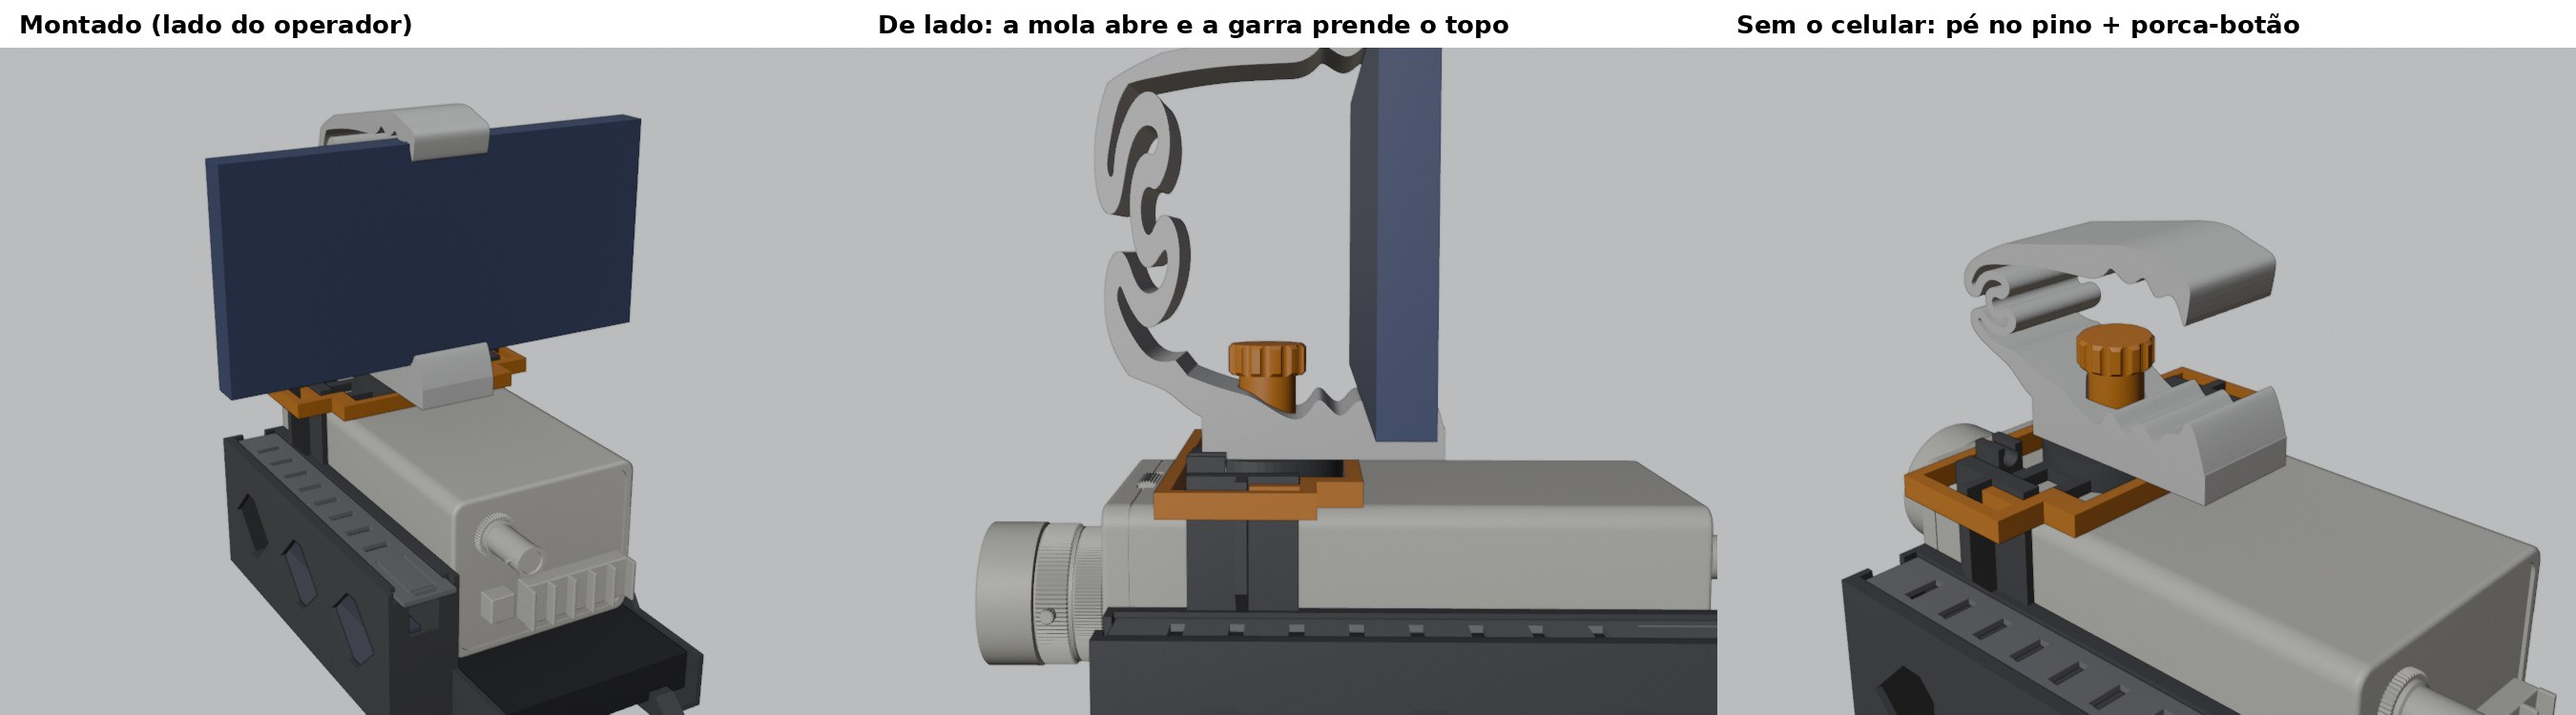
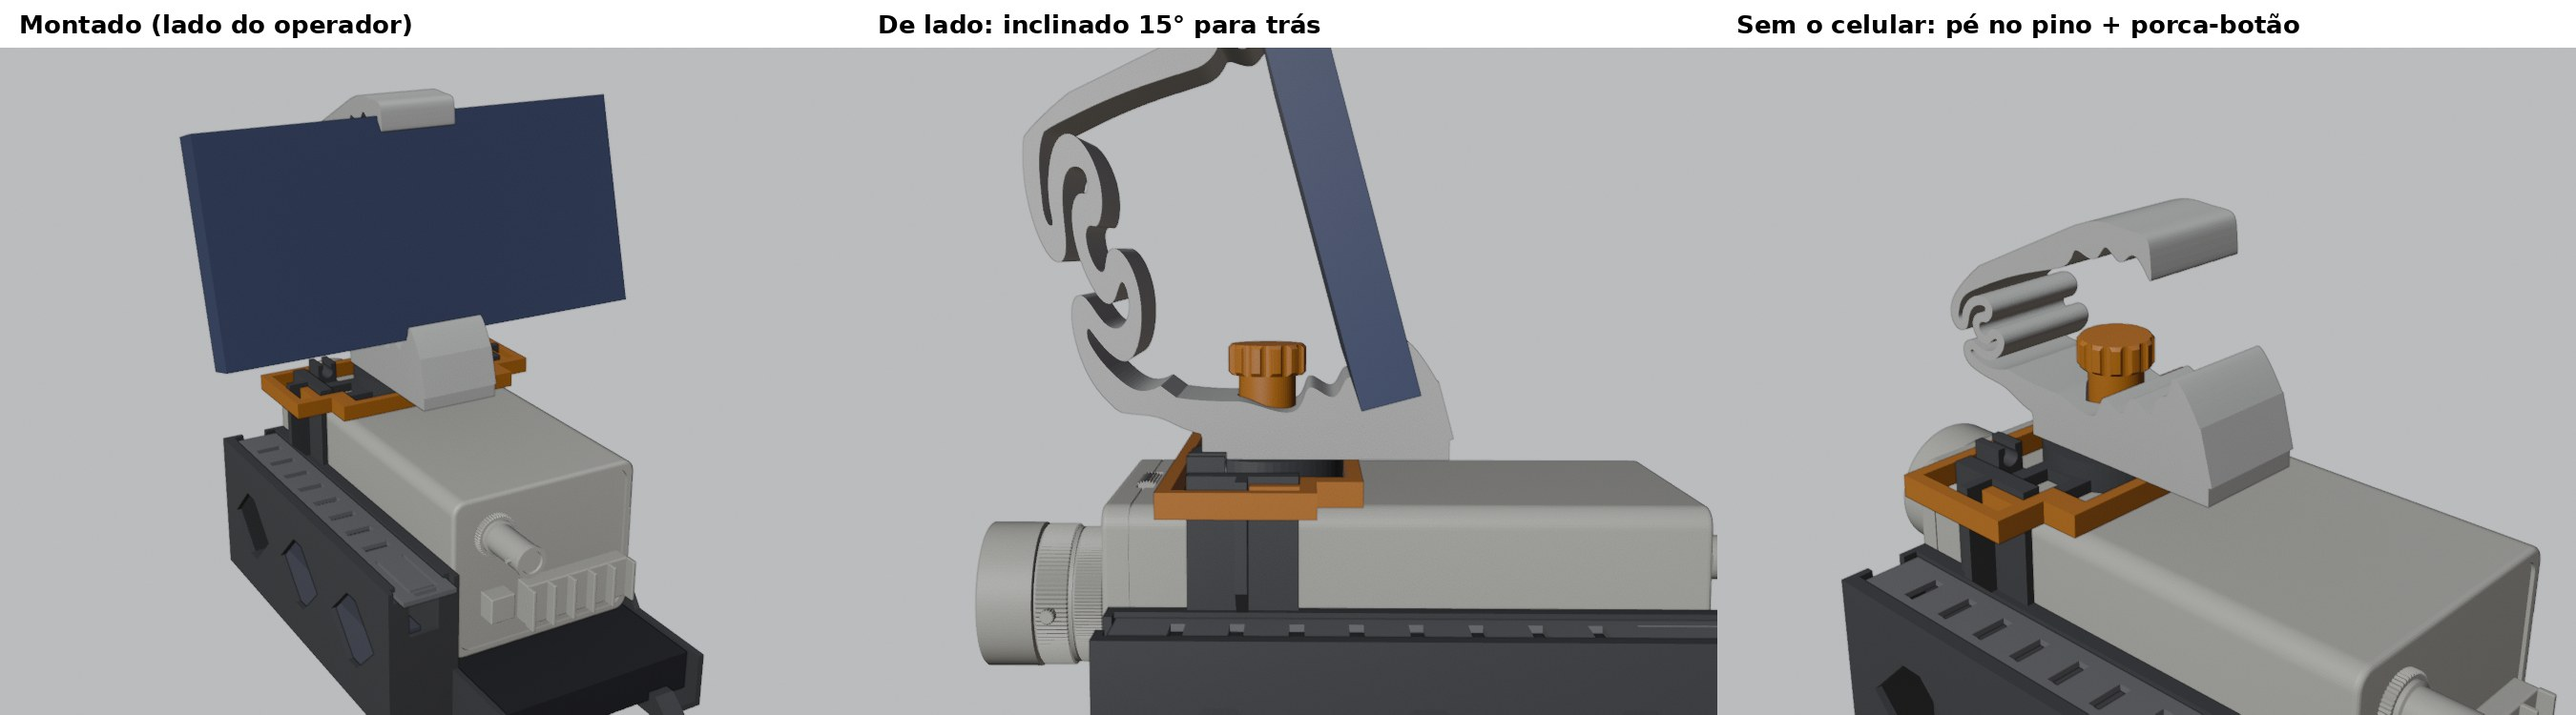
Clip do celular inclinado 15° para trás
O corpo do clip inclina sobre o pé, que continua reto na base do giro
(parâmetro CL_INC). Inclui o desenho de como o clip encaixa no pino.

diff --git a/docs/SUPORTE_CLIP.md b/docs/SUPORTE_CLIP.md
@@ -1,14 +1,17 @@
 # Suporte fixo do celular (clip do MakerWorld)
 
-Esta opção troca a articulação (giro, inclinação e rolagem) por um suporte fixo. O celular fica num clip de mola preso na base do giro da ponte, com a tela para o operador.
+Esta opção troca a articulação (giro, inclinação e rolagem) por um suporte fixo. O celular fica num clip de mola preso na base do giro da ponte, com a tela para o operador e inclinado 15° para trás, com a tela apontando um pouco para cima.
 
 ![Suporte fixo com o clip](img/suporte_clip.jpg)
+
+![Como o clip encaixa na ponte](img/como_encaixa.jpg)
 
 O clip é o [Ultimate Desk & Cockpit Phone Holder Clip v3](https://makerworld.com/models/1158094), de **RealNationPrint**, impresso a 110 %, como no perfil do autor.
 - **A garra de cima, com a mola em espiral,** segura o celular deitado pela altura. O fundo do celular fica nos dentes, atrás do lábio da frente, e a ponta da garra prende o topo.
 - **A garra de baixo,** que prendia o clip no painel do carro, foi tirada.
 - **No lugar dela entra um pé,** com furo em D que encaixa no pino do giro. A face plana do pino impede o clip de girar.
 - **Uma porca-botão** rosqueia no pino por cima e aperta o pé contra a base.
+- **Inclinação:** o corpo do clip é inclinado 15° em cima do pé, que continua reto na base. Para mudar, altere `CL_INC` no `.scad`.
 
 ## O arquivo do clip não vem neste projeto
 
@@ -32,7 +35,7 @@ O arquivo gerado é só para uso pessoal.
 
 | Peça | Material | Configuração | Filamento* |
 |---|---|---|---|
-| Clip (`PART="clip"`) | **PETG** | Deitado, com o perfil na mesa. Camada de 0,2 mm, 3 paredes, 25 % de preenchimento, sem suporte. | ~28 g |
+| Clip (`PART="clip"`) | **PETG** | Deitado, com o perfil na mesa. Camada de 0,2 mm, 3 paredes, 25 % de preenchimento, sem suporte. | ~30 g |
 | Porca-botão (`PART="porca_clip"`) | PLA | Botão na mesa. Mesma configuração das porcas (mesa 4): camada de 0,12 mm, 5 paredes, 40 %. | ~3 g |
 
 \* Estimativa. O fatiador mostra o peso exato.
@@ -66,9 +69,9 @@ O arquivo gerado é só para uso pessoal.
   - porca-botão no rebaixo: 0,4 mm;
   - botão até o corpo do clip: 2,3 mm.
 - **Celular:**
-  - Fica de pé de Z 47 a 121 mm, uns 11 mm mais baixo que na articulação.
-  - Mantém a mesma posição para a frente e para trás.
-- **Equilíbrio:** o centro de massa fica ~4 mm atrás da mão, como antes.
+  - Fica inclinado 15° para trás, de Z 52 a 126 mm, uns 6 mm mais baixo que na articulação.
+  - Sobram 8 mm entre o celular e a porca-botão.
+- **Equilíbrio:** o centro de massa fica ~1,5 mm atrás da mão. Antes ficava ~4 mm.
 - **Em pé na mesa:** o rig só tomba se inclinar mais de ~6°.
 
 Para refazer as contas: `tools/check_clip.py` e `tools/cog_clip.py`.

diff --git a/docs/COMO_IMPRIMIR.md b/docs/COMO_IMPRIMIR.md
@@ -11,7 +11,7 @@ As mesas da pasta `mesas/` foram montadas para a **Anycubic Kobra X** (mesa de 2
 | 4 | `4_parafusos_PLA.3mf` | PLA | ~12 g |
 | 5 | `5_trava_ponte_PETG.3mf` | PETG (ou PLA) | ~6 g |
 | 6 | `6_trava_celular_PLA.3mf` | PLA | ~20 g |
-| 7 | clip do celular (opção fixa, [gere você mesmo](SUPORTE_CLIP.md)) | PETG | ~28 g |
+| 7 | clip do celular (opção fixa, [gere você mesmo](SUPORTE_CLIP.md)) | PETG | ~30 g |
 | 8 | `8_porca_clip_PLA.3mf` (opção fixa) | PLA | ~3 g |
 
 Na opção fixa com o clip, não precisa de garfo, braço, garra e mordente (mesa 3), da mesa 6 nem dos parafusos da articulação (mesa 4). A chave do cabo, que também sai na mesa 4, continua necessária.
